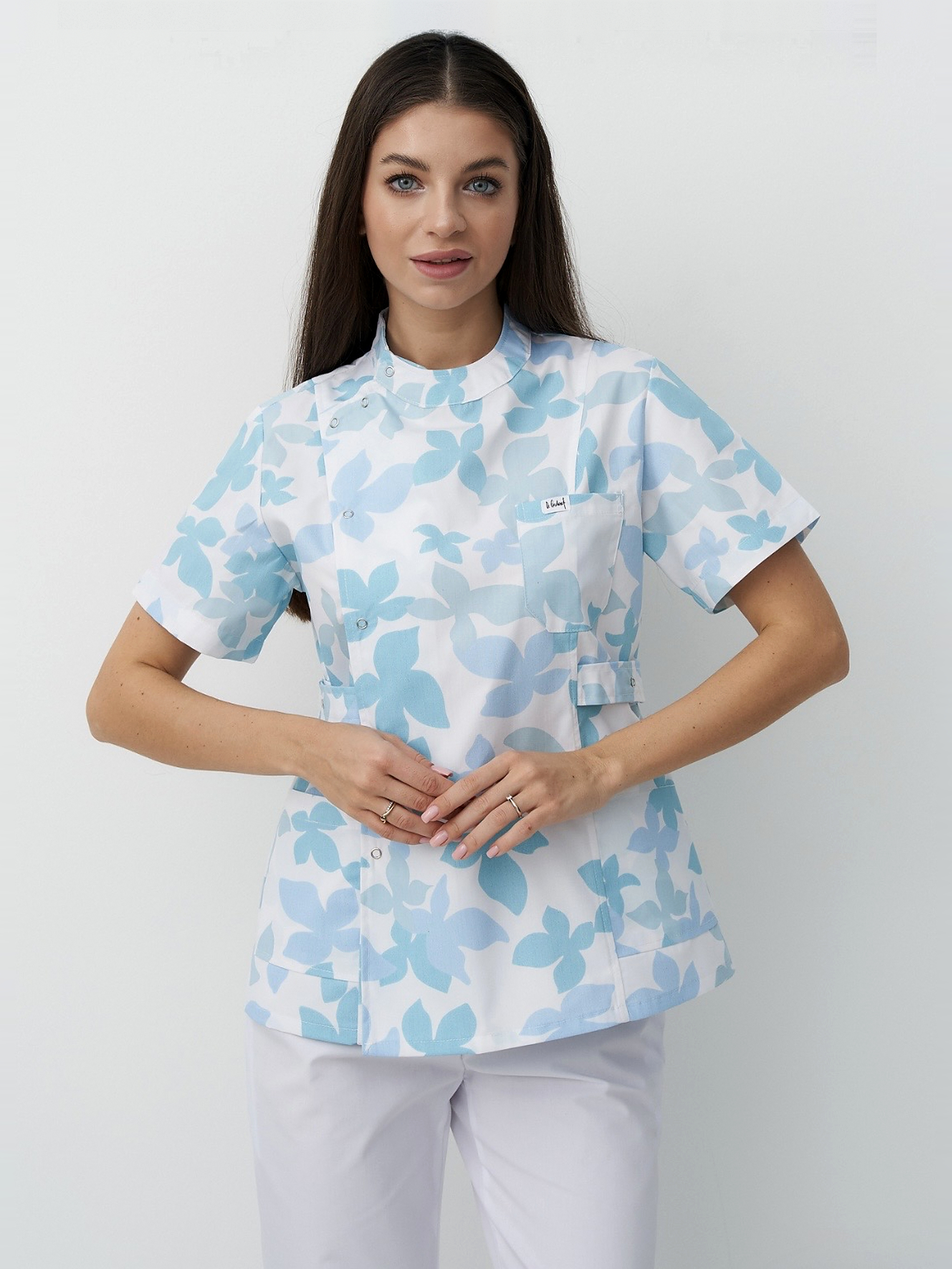
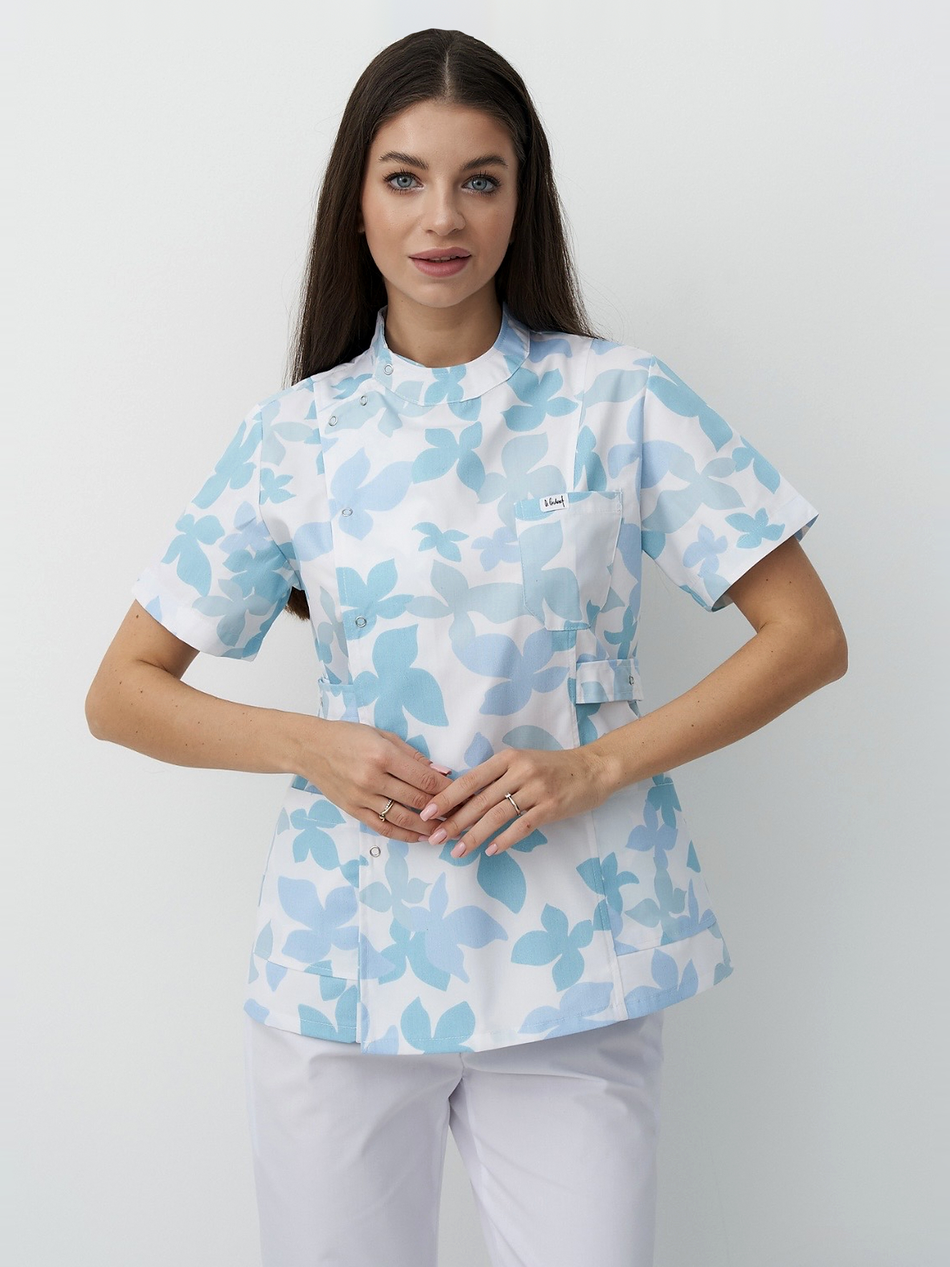
Stop rebuilding crowns the border only grazed
Measured at the edges of each flat, five of the six frames I had rebuilt lose
between 0 and 5px of crown: 7 loses 5.1, 8 loses 2.9, 16 loses 1.0, and 10 and
17 lose nothing at all. Reconstructing that costs far more than it buys - the
grey wash on 12, the notch and then the comb on 18, and a blocky step on 8 in
this pass - so anything shallower than 8px is now left exactly as shot. Those
five frames carry no hair edits at all: max change against the original is 4-5
levels, the JPEG re-encode.

Photo 12 is the one frame that genuinely loses a crown - 18px across 149
columns - and it no longer borrows texture for it either. The self-lift now
scales its fade with the gap (142 rows here, so the stretch stays under 13%),
which keeps that frame's own strands, parting and grain all the way to the
apex; the donor paste that left the grey patch is gone.

The donor is now only ever consulted for the shape of the arc.

Claude-Session: https://claude.ai/code/session_01JHcE1fAS6ZLX1B7gE1H4Fj

diff --git a/scripts/transplant_crown.py b/scripts/transplant_crown.py
@@ -19,7 +19,9 @@ DOME = 170              # outline rows that still belong to the crown, not falli
 SCALE = (0.60, 1.85)    # head-size ratios the reference search covers
 BLEND = 16              # rows of real hair the hand-over ramp is allowed to touch
 FEATHER = 2.2           # px of softness on a lifted outline
-LIFT_MAX = 10           # gap up to which the frame's own hair is stretched instead
+LIFT_MAX = 25           # gap up to which the frame's own hair is stretched instead
+NOTHING = 8.0           # a shallower graze than this is left alone: rebuilding a
+                        # few px of crown costs more artefacts than the flat does
 
 
 def matte(A, rows=400):
@@ -75,7 +77,7 @@ def curve_from(yr, s, dx, dy, W):
     return np.where(inb, c, np.inf)   # and a ragged curve combs the rebuilt edge
 
 
-def lift_crown(B, N, yt, curve, cols, span=50):
+def lift_crown(B, N, yt, curve, cols, span):
     """Stretch the target's own hair up to the fitted outline.
 
     Only a few pixels are missing here, so borrowing texture from another frame
@@ -127,20 +129,25 @@ def run(tgt_path, ref_path, dst, px=tm.DEFAULT_PX):
         arc = curve[span] + (yL - cL) * (1 - t) + (yR - cR) * t
         gap[span] = np.clip(yt[span] - arc, 0, None)
         gap = np.where(gauss1d(gap, 4) > 0.5, gauss1d(gap, 4), 0.0)
-    lift = 0 < gap.max() <= LIFT_MAX
+    lift = NOTHING < gap.max() <= LIFT_MAX
+    intact = gap.max() <= NOTHING
 
     apex = (s * yr[yr >= 0].min() + dy)
-    crown = int(np.ceil(max(gap.max(), -apex, 0.0))) + 6
+    crown = 4 if intact else int(np.ceil(max(gap.max(), 0.0))) + 6
     Tm = px
     N = Tm + crown
 
     depth = np.maximum(tm.background_depth(T), 1)
     B = tm.extend_top(T, N, depth)                       # background above everything
 
-    if lift:
+    if intact:
+        print(f"  the border only grazes the crown ({gap.max():.1f}px) - hair left untouched")
+    elif lift:
         cols = np.where(gap > 0.3)[0]
-        print(f"  lifting the frame's own hair by up to {gap.max():.1f}px over {len(cols)} columns")
-        B = lift_crown(B, N, yt, curve, cols)
+        span = int(max(50, 8 * gap.max()))           # gentler stretch for a bigger gap
+        print(f"  lifting the frame's own hair by up to {gap.max():.1f}px "
+              f"over {len(cols)} columns, faded out across {span} rows")
+        B = lift_crown(B, N, yt, curve, cols, span)
         alpha = np.clip(((np.arange(N + 60)[:, None] - (curve[None, :] + N)) / FEATHER) + 0.5, 0, 1)
         touched = np.zeros(W, bool)
         touched[cols] = True
@@ -148,7 +155,7 @@ def run(tgt_path, ref_path, dst, px=tm.DEFAULT_PX):
         bg = tm.extend_top(T, N, depth)[:N + 60]
         B[:N + 60] = B[:N + 60] * a + bg * (1 - a)
 
-    else:
+    elif not intact:
         # warp the reference into the extended target frame
         ys, xs = np.mgrid[0:N + 320, 0:W]
         mx = (xs - dx) / s
@@ -182,7 +189,7 @@ def run(tgt_path, ref_path, dst, px=tm.DEFAULT_PX):
 
     V = np.asarray(Image.open(dst).convert('RGB')).astype(np.float64)
     yv = outline(matte(V))
-    print(f"{dst}: crown rebuilt {crown - 6}px, +{Tm}px margin, "
+    print(f"{dst}: crown rebuilt {0 if intact else crown - 6}px, +{Tm}px margin, "
           f"clearance 0 -> {int(yv[yv >= 0].min())}px, {out.size[0]}x{out.size[1]}")
 
 
